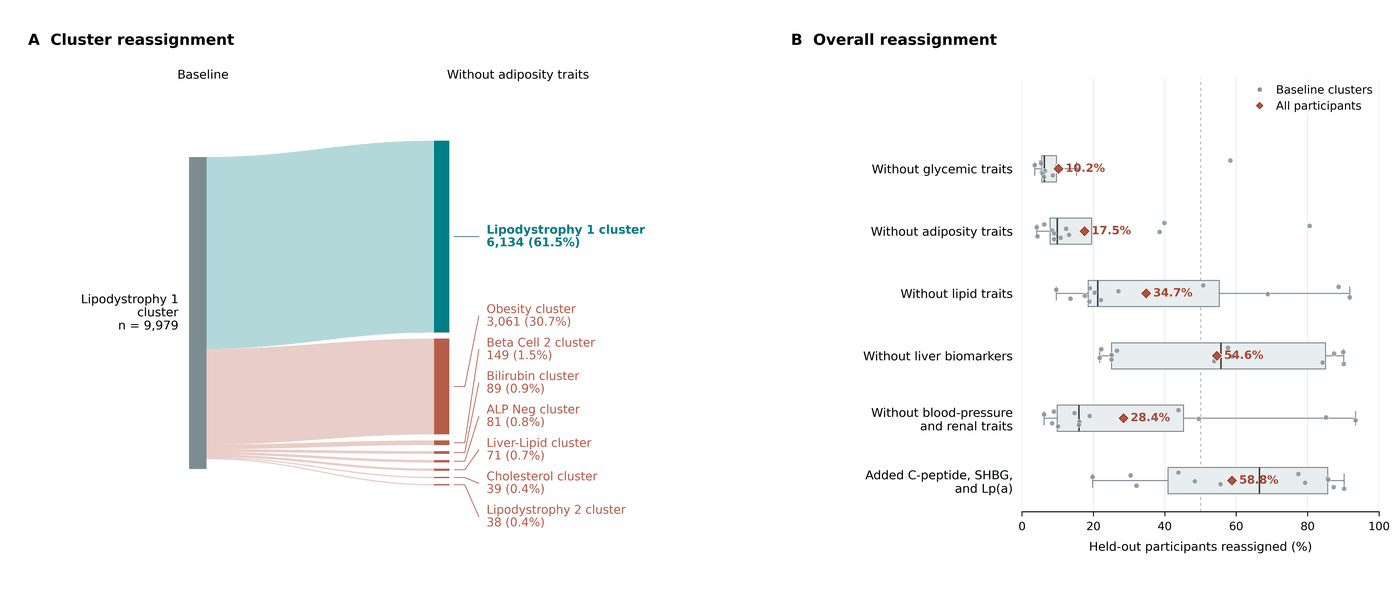
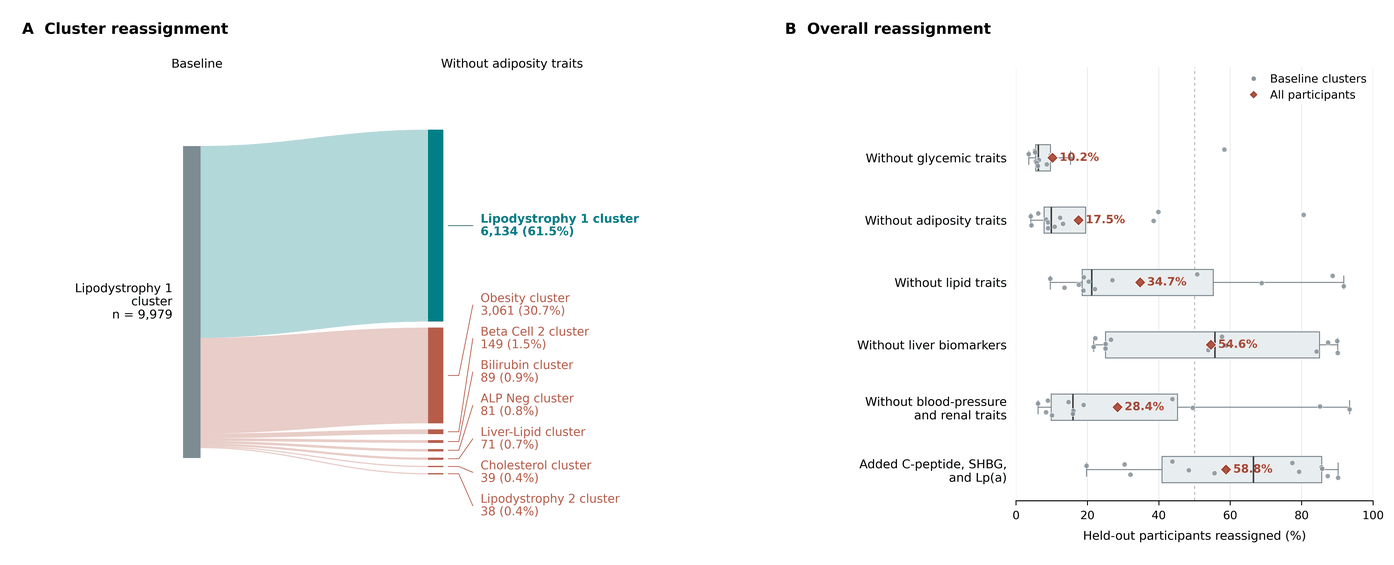
Restructure T2D page with new title and figures

diff --git a/static/research/t2d-pathways/index.html b/static/research/t2d-pathways/index.html
@@ -3,7 +3,7 @@
 <head>
   <meta charset="utf-8">
   <meta name="viewport" content="width=device-width, initial-scale=1">
-  <title>Pathway-Independent Genetic Signals in Type 2 Diabetes Clusters | Sijia Zhu</title>
+  <title>From Genetic Clusters to Biological Pathways in Type 2 Diabetes | Sijia Zhu</title>
   <meta name="description" content="Sijia Zhu's project on interpreting type 2 diabetes genetic clusters with tissue-specific Reactome pathway scores in All of Us.">
   <link rel="canonical" href="https://chesleaz.github.io/sijiazhu.github.io/research/t2d-pathways/">
   <script>try{if(localStorage.getItem('sz-theme')==='light')document.documentElement.setAttribute('data-theme','light')}catch(e){}</script>
@@ -23,6 +23,7 @@
     h2 { margin: 44px 0 10px; font-size: 22px; font-weight: normal; }
     p { margin: 0 0 16px; }
     figure { margin: 28px 0 32px; }
+    figure a { display: block; cursor: zoom-in; }
     figure img { display: block; width: 100%; height: auto; background: #fff; border-radius: 2px; }
     figcaption { margin-top: 10px; color: var(--muted); font-size: 15px; line-height: 1.6; }
     .refs { margin: 0; padding-left: 20px; color: var(--muted); font-size: 15px; }
@@ -36,38 +37,48 @@
   </header>
   <main>
     <article>
-      <h1>Pathway-Independent Genetic Signals in Type 2 Diabetes Clusters</h1>
+      <h1>From Genetic Clusters to Biological Pathways in Type 2 Diabetes</h1>
       <p class="byline">Broad Institute of MIT and Harvard<br>Supervisors: <a href="https://westerman-lab.github.io/">Prof. Kenneth Westerman</a> and <a href="https://www.udlerlab.org/">Prof. Miriam Udler</a></p>
 
-      <p>Genetic clustering of type 2 diabetes (T2D) groups risk variants by how they relate to metabolic traits, and the resulting cluster scores are often read as distinct disease mechanisms. In this project I ask how far those clusters can be trusted, and whether biological pathways give a more stable way to describe the same genetic signal.</p>
-
-      <h2>Background</h2>
-      <p>The published cluster definitions (<a href="https://doi.org/10.1007/s00125-022-05848-6">Kim et al. 2023</a>, <a href="https://doi.org/10.1038/s41591-024-02865-3">Smith et al. 2024</a>, <a href="https://doi.org/10.1038/s41586-024-07019-6">Suzuki et al. 2024</a>) depend on the population, the traits used for clustering and the clustering method. The labels also have to be interpreted after the fact. Pathway polygenic scores take the opposite route: genes are mapped to annotated pathways ahead of time, so the features stay fixed across studies and can be compared across tissues and diseases.</p>
+      <p>Genetic clustering of type 2 diabetes (T2D) groups risk variants by how they relate to metabolic traits. The resulting cluster scores are often read as distinct disease mechanisms, and they are increasingly discussed as a route to more precise care. In this project we ask how far those clusters can be trusted, and whether biological pathways give a more stable way to describe the same genetic signal.</p>
 
       <h2>Approach</h2>
-      <p>I computed the published cluster scores in All of Us, and built tissue-specific Reactome pathway scores from GTEx v8 expression prediction models. I then used ridge regression to reconstruct each cluster score from the pathway scores. This gives three versions of the same genetic information (original cluster scores, pathway scores, and pathway-reconstructed cluster scores) that I compare throughout.</p>
+      <p>The published cluster definitions (<a href="https://doi.org/10.1007/s00125-022-05848-6">Kim et al. 2023</a>, <a href="https://doi.org/10.1038/s41591-024-02865-3">Smith et al. 2024</a>, <a href="https://doi.org/10.1038/s41586-024-07019-6">Suzuki et al. 2024</a>) depend on the population, the traits used for clustering and the clustering method, and their labels have to be interpreted after the fact. Pathway polygenic scores take the opposite route: genes are mapped to annotated pathways ahead of time, so the features stay fixed across studies and can be compared across tissues and diseases.</p>
+      <p>We computed the published cluster scores in All of Us, and built tissue-specific Reactome pathway scores from GTEx v8 expression prediction models. We then used ridge regression to reconstruct each cluster score from the pathway scores. This gives three versions of the same genetic information (original cluster scores, pathway scores, and pathway-reconstructed cluster scores) that we compare throughout.</p>
 
-      <h2>What I have found so far</h2>
-      <p>First, the clusters are less stable than their labels suggest. The same participant can land in quite different places depending on which study's definition is used (Figure 1). Within a single framework, simply removing adiposity traits from the clustering inputs moved 38.5% of Lipodystrophy 1 participants to another cluster, and 17.5% of participants overall.</p>
+      <h2>Clusters shift with their definition</h2>
+      <p>The same participant can land in quite different places depending on which study&rsquo;s definition is used (Figure 1).</p>
       <figure>
-        <img src="fig-cross-study.png" alt="Left: one participant's Obesity and Liver/lipid cluster scores under the Kim, Smith and Suzuki definitions, plotted as three separated points. Right: histograms of the distance between definitions across all participants." width="1400" height="729" loading="lazy">
+        <a href="fig-cross-study.png" target="_blank" rel="noopener"><img src="fig-cross-study.png" alt="Left: one participant's Obesity and Liver/lipid cluster scores under the Kim, Smith and Suzuki definitions, plotted as three separated points. Right: histograms of the distance between definitions across all participants." width="1400" height="729" loading="lazy"></a>
         <figcaption>Figure 1. The same participant under three published cluster definitions (left), and how far apart the definitions place participants in general (right).</figcaption>
       </figure>
-
-      <p>Second, pathways help explain what two similarly named clusters have in common. Lipodystrophy 1 and 2 are driven by different leading variants, but three of their top five pathways are the same: leptin signaling, signal attenuation and growth hormone receptor signaling, all in visceral adipose tissue (Figure 2).</p>
+      <p>Even within a single framework, assignments depend on which traits go into the clustering. Removing adiposity traits moved 38.5% of Lipodystrophy 1 participants to another cluster, and 17.5% of participants overall. Removing liver biomarkers reassigned 54.6% (Figure 2).</p>
       <figure>
-        <img src="overview.png" alt="Bar charts for the Lipodystrophy 1 and 2 clusters showing their top five variants and their top five pathway scores, with leptin signaling, signal attenuation and growth hormone receptor signaling in visceral adipose shared by both." width="1100" height="791" loading="lazy">
-        <figcaption>Figure 2. Top variants (left) and top pathway&ndash;tissue scores (right) for the two lipodystrophy clusters.</figcaption>
+        <a href="fig-within-study.png" target="_blank" rel="noopener"><img src="fig-within-study.png" alt="Left: Sankey diagram showing that after removing adiposity traits, 61.5% of the 9,979 Lipodystrophy 1 participants stay in that cluster while most others move to the Obesity cluster. Right: percentage of held-out participants reassigned when different trait groups are removed or added, from 10.2% without glycemic traits to 58.8% with added C-peptide, SHBG and Lp(a)." width="1394" height="565" loading="lazy"></a>
+        <figcaption>Figure 2. Where Lipodystrophy 1 participants go when adiposity traits are removed (left), and how many participants are reassigned when each trait group is removed or added (right).</figcaption>
       </figure>
 
-      <p>Third, the pathway-reconstructed scores keep at least some of the clinical signal. Smith et al. showed that adjusting for the lipodystrophy scores narrows the difference in T2D risk between East Asian and European ancestry at the same BMI, and the reconstructed scores reproduce this (Figure 3). Neither the cluster scores nor the pathway scores improved prediction of retinopathy or neuropathy over a clinical baseline. For coronary artery disease, the original and reconstructed scores behaved differently.</p>
+      <h2>Pathways reveal shared biology</h2>
+      <p>Lipodystrophy 1 and 2 are driven by different leading variants, but three of their top five pathways are the same: leptin signaling, signal attenuation and growth hormone receptor signaling, all in visceral adipose tissue (Figure 3).</p>
       <figure>
-        <img src="fig-bmi-t2d.png" alt="Three panels of predicted T2D probability against BMI for five ancestry groups: without adjustment, adjusted for the original lipodystrophy scores, and adjusted for the pathway-reconstructed scores." width="1400" height="430" loading="lazy">
-        <figcaption>Figure 3. Predicted T2D probability across BMI by genetic ancestry, without adjustment and after adjusting for the original or pathway-reconstructed lipodystrophy scores.</figcaption>
+        <a href="overview.png" target="_blank" rel="noopener"><img src="overview.png" alt="Bar charts for the Lipodystrophy 1 and 2 clusters showing their top five variants and their top five pathway scores, with leptin signaling, signal attenuation and growth hormone receptor signaling in visceral adipose shared by both." width="1100" height="791" loading="lazy"></a>
+        <figcaption>Figure 3. Top variants (left) and top pathway&ndash;tissue scores (right) for the two lipodystrophy clusters.</figcaption>
+      </figure>
+
+      <h2>Pathway scores keep clinical signal</h2>
+      <p>Smith et al. showed that adjusting for the lipodystrophy scores narrows the difference in T2D risk between East Asian and European ancestry at the same BMI. The pathway-reconstructed scores reproduce this (Figure 4).</p>
+      <figure>
+        <a href="fig-bmi-t2d.png" target="_blank" rel="noopener"><img src="fig-bmi-t2d.png" alt="Three panels of predicted T2D probability against BMI for five ancestry groups: without adjustment, adjusted for the original lipodystrophy scores, and adjusted for the pathway-reconstructed scores." width="1400" height="430" loading="lazy"></a>
+        <figcaption>Figure 4. Predicted T2D probability across BMI by genetic ancestry, without adjustment and after adjusting for the original or pathway-reconstructed lipodystrophy scores.</figcaption>
+      </figure>
+      <p>Other outcomes are less consistent. Neither the cluster scores nor the pathway scores improved prediction of retinopathy or neuropathy over a clinical baseline. For coronary artery disease, the original and reconstructed scores behaved differently (Figure 5).</p>
+      <figure>
+        <a href="fig-bmi-cad.png" target="_blank" rel="noopener"><img src="fig-bmi-cad.png" alt="Three panels of predicted probability of recorded coronary atherosclerosis against BMI for five ancestry groups: without adjustment, adjusted for the original lipodystrophy scores, and adjusted for the pathway-reconstructed scores." width="1400" height="460" loading="lazy"></a>
+        <figcaption>Figure 5. Predicted probability of recorded coronary atherosclerosis across BMI by genetic ancestry, with the same three adjustments as Figure 4.</figcaption>
       </figure>
 
       <h2>Open questions</h2>
-      <p>These results are preliminary and not yet peer reviewed. Two things I would most like to understand better are how much the pathway associations depend on a few individual genes, and what the different coronary artery disease pattern reflects.</p>
+      <p>These results are preliminary and not yet peer reviewed. Two things we would most like to understand better are how much the pathway associations depend on a few individual genes, and what the different coronary artery disease pattern reflects.</p>
     </article>
   </main>
   <footer><a href="../../research/">&larr; Back to Research</a></footer>
